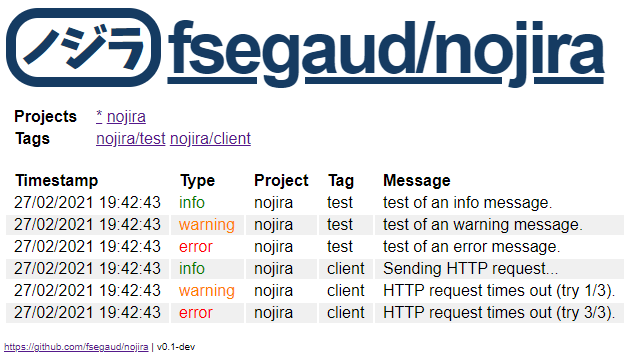
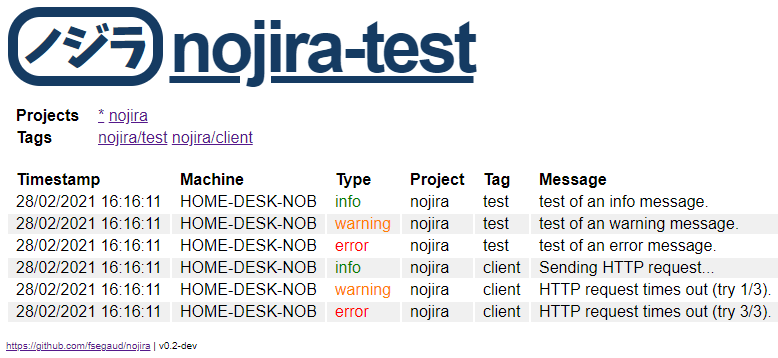
Changed versionn to v0.2-dev
Updated screenshots

diff --git a/nojira-daemon/Program.cs b/nojira-daemon/Program.cs
@@ -22,7 +22,7 @@ namespace Nojira.Daemon
 {
     public class Program
     {
-        public const string Version = "v0.1-dev";
+        public const string Version = "v0.2-dev";
 
         public static void Main(string[] args)
         {

diff --git a/CHANGELOG.md b/CHANGELOG.md
@@ -1,6 +1,6 @@
 # Changelog
 
-## Unreleased - ????-??-??
+## v0.2-dev - 2021-02-28
 ### Added
 - [daemon] Added a new database field `Log.MachineName` and the corresponding `machine` API field.
 - [client] `Environment.MachineName` is now sent as log info.
